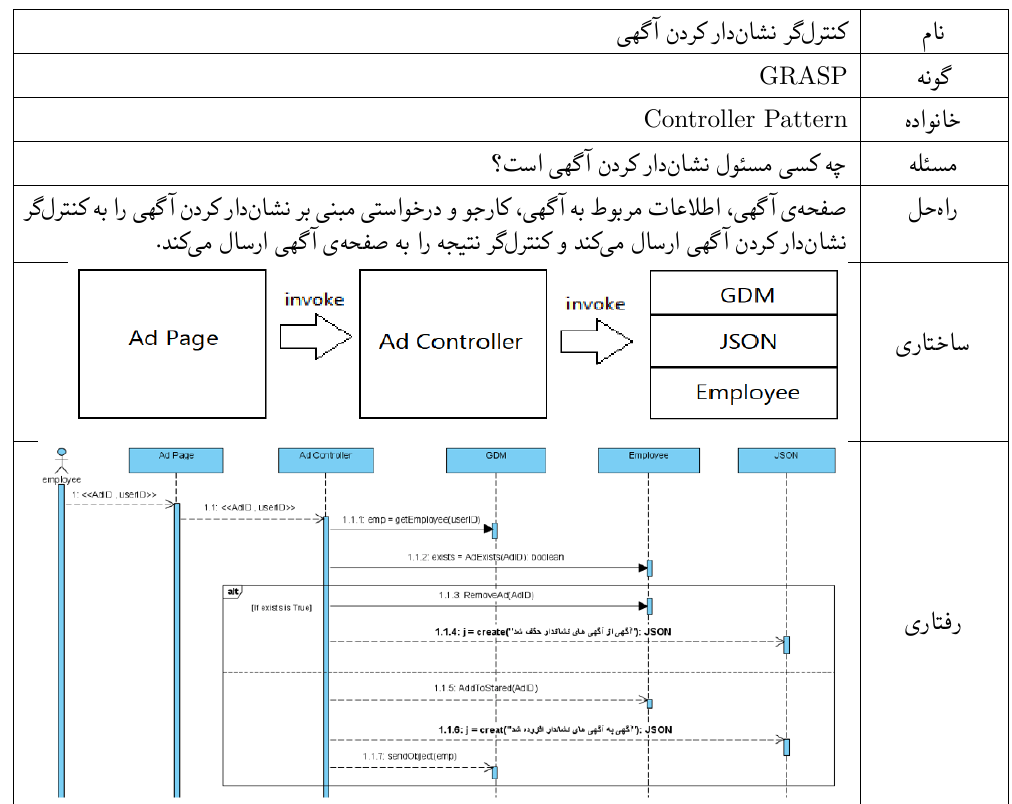
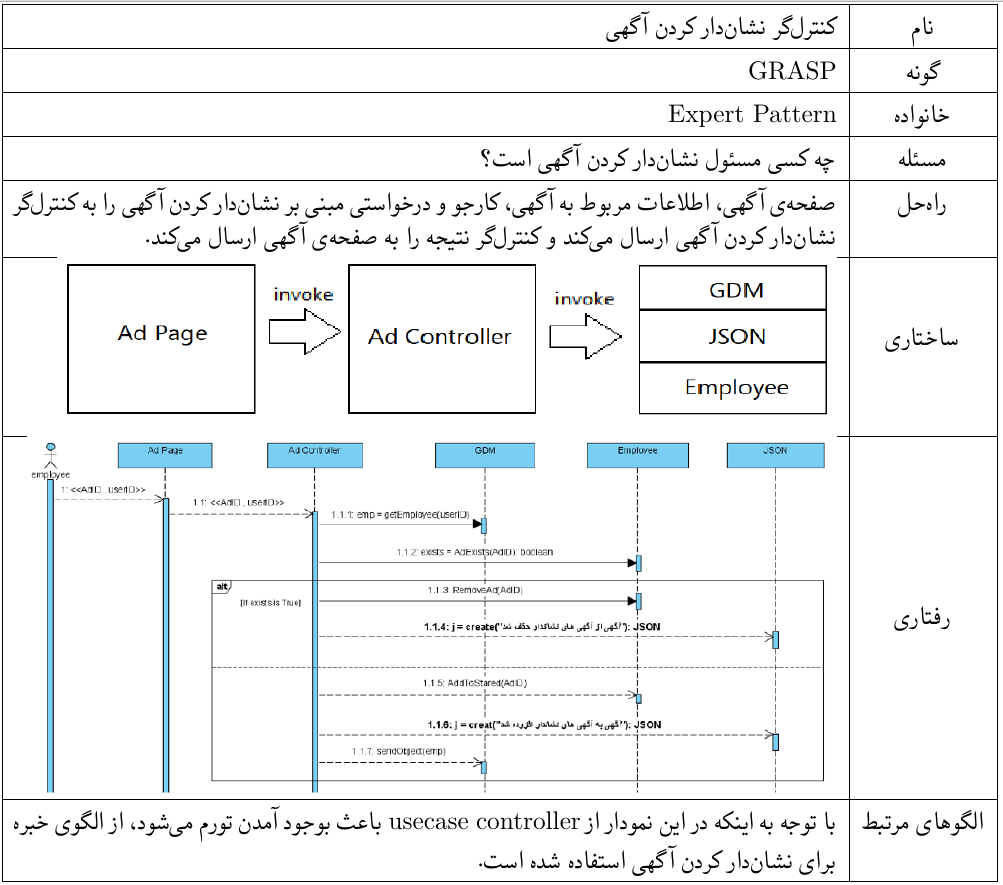
add some rows and pics

diff --git a/chapters/assignment.tex b/chapters/assignment.tex
@@ -163,7 +163,7 @@
 			\grasp \\
 			\hline
 			خانواده &
-			\controller \\
+			\lr{Expert Pattern} \\
 			\hline
 			مسئله & 
 			چه کسی مسئول نشاندار کردن آگهی است؟\\
@@ -191,6 +191,9 @@
 				\end{flushleft}
 			\end{minipage}
 			\\
+			\hline
+			الگوهای مرتبط & 
+			با توجه به اینکه در این نمودار از \lr{usecase controller} باعث بوجود آمدن تورم میشود، از الگوی خبره برای نشاندار کردن آگهی استفاده شده است. \\
 			\hline
 		\end{tabular}
 	\end{adjustbox}
@@ -237,6 +240,10 @@
 				\end{flushleft}
 			\end{minipage}
 			\\
+			\hline
+						الگوهای مرتبط &
+						این الگو در سیستمهای تعاملی پیادهسازی اشیاء آن مورد استفاده قرار میگیرد. در این نمودار مورد کاربرد نحوهی نشاندادن روند آگهیهای درخواستی نشان داده شده است.
+						 \\
 			\hline
 		\end{tabular}
 	\end{adjustbox}
